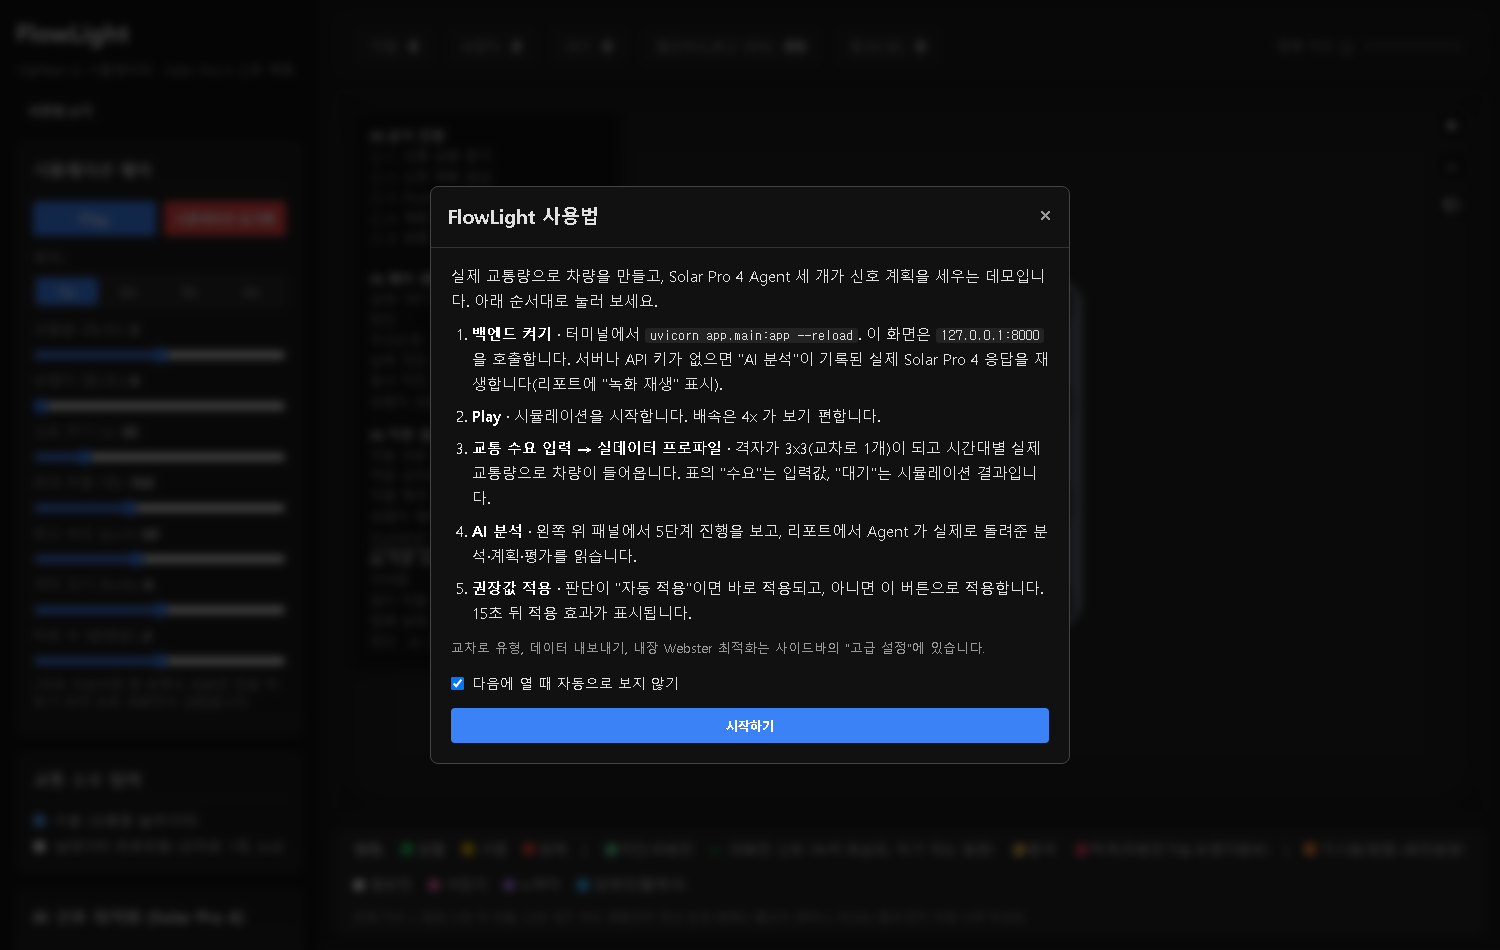
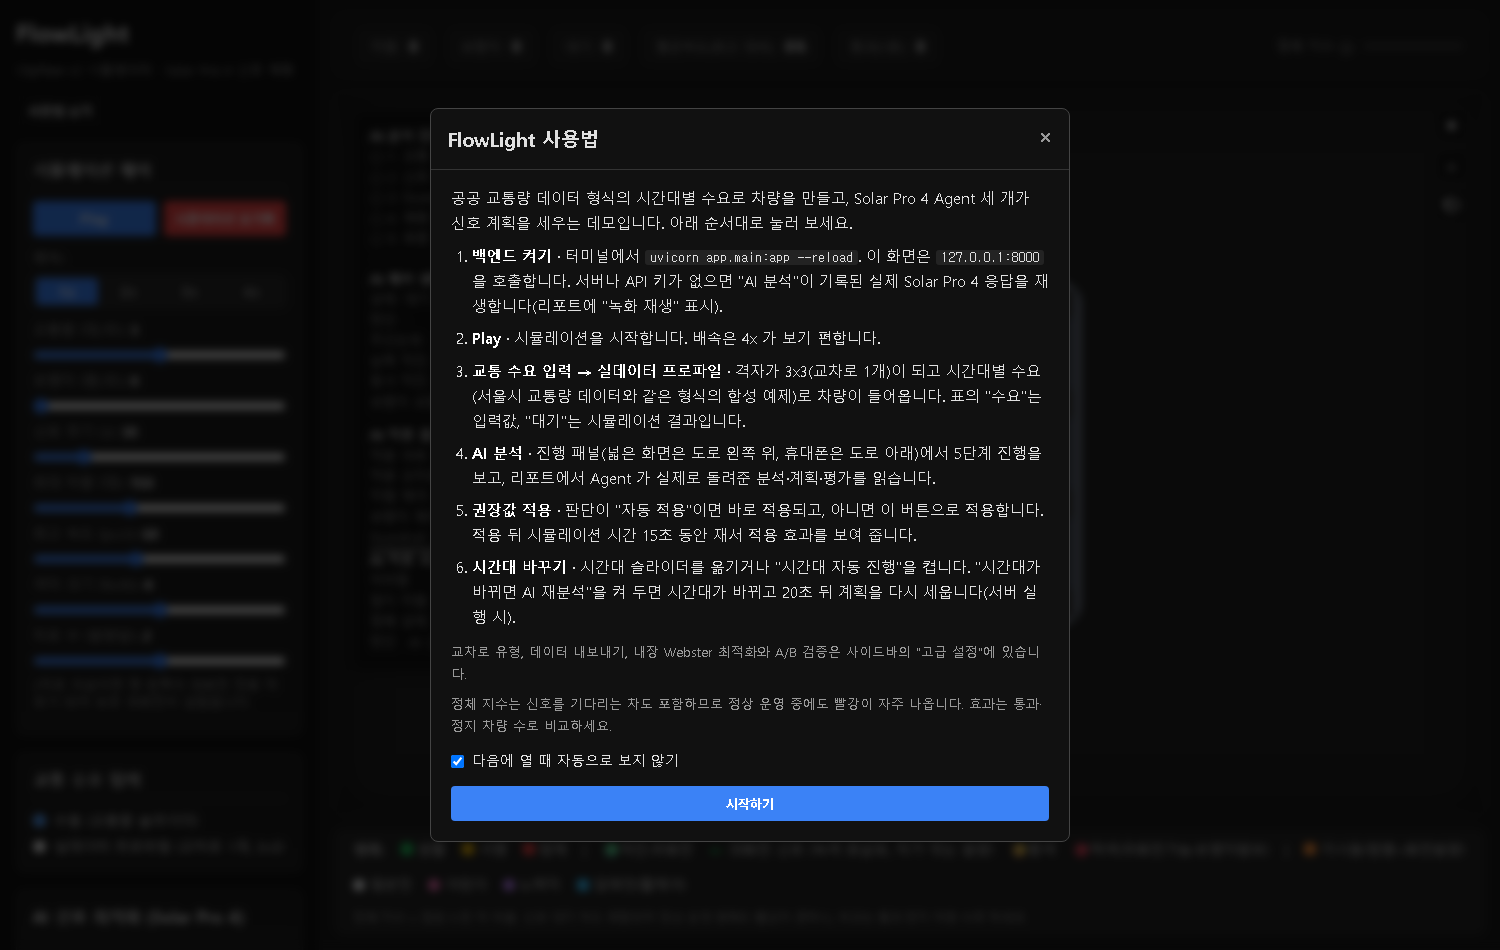
사용법 안내 보완, 데이터 설명 바로잡기
- 사용법 창: 시간대 바꾸기·재분석 단계, A/B 검증 위치, 정체 지수 읽는 법을 추가했다.
  진행 패널 위치는 휴대폰(도로 아래)도 적었다. 공개 페이지에서는 "백엔드 켜기" 단계를 뺀다.
- "실제 교통량으로 차를 만든다"는 문구를 바로잡았다. 저장소 데이터는 서울시 교통량
  데이터와 형식이 같은 합성 예제다. README 의 "실제 수요" 표현도 "배율 ×1 수요"로.
- README ko/en: 사용법 안내 다섯 단계 → 여섯 단계.
- 사용법 캡처와 Live Demo GIF 다시 촬영 (GIF 는 실제 호출 1회).

diff --git a/app/index.html b/app/index.html
@@ -487,15 +487,17 @@ input[type="range"]:disabled { opacity: 0.35; }
                 <button id="btn-close-help" class="btn-close">&times;</button>
             </div>
             <div class="help-body">
-                <p>실제 교통량으로 차량을 만들고, Solar Pro 4 Agent 세 개가 신호 계획을 세우는 데모입니다. 아래 순서대로 눌러 보세요.</p>
+                <p>공공 교통량 데이터 형식의 시간대별 수요로 차량을 만들고, Solar Pro 4 Agent 세 개가 신호 계획을 세우는 데모입니다. 아래 순서대로 눌러 보세요.</p>
                 <ol>
-                    <li><b>백엔드 켜기</b> · 터미널에서 <code>uvicorn app.main:app --reload</code>. 이 화면은 <code>127.0.0.1:8000</code> 을 호출합니다. 서버나 API 키가 없으면 "AI 분석"이 기록된 실제 Solar Pro 4 응답을 재생합니다(리포트에 "녹화 재생" 표시).</li>
+                    <li id="help-step-server"><b>백엔드 켜기</b> · 터미널에서 <code>uvicorn app.main:app --reload</code>. 이 화면은 <code>127.0.0.1:8000</code> 을 호출합니다. 서버나 API 키가 없으면 "AI 분석"이 기록된 실제 Solar Pro 4 응답을 재생합니다(리포트에 "녹화 재생" 표시).</li>
                     <li><b>Play</b> · 시뮬레이션을 시작합니다. 배속은 4x 가 보기 편합니다.</li>
-                    <li><b>교통 수요 입력 → 실데이터 프로파일</b> · 격자가 3x3(교차로 1개)이 되고 시간대별 실제 교통량으로 차량이 들어옵니다. 표의 "수요"는 입력값, "대기"는 시뮬레이션 결과입니다.</li>
-                    <li><b>AI 분석</b> · 왼쪽 위 패널에서 5단계 진행을 보고, 리포트에서 Agent 가 실제로 돌려준 분석·계획·평가를 읽습니다.</li>
-                    <li><b>권장값 적용</b> · 판단이 "자동 적용"이면 바로 적용되고, 아니면 이 버튼으로 적용합니다. 15초 뒤 적용 효과가 표시됩니다.</li>
+                    <li><b>교통 수요 입력 → 실데이터 프로파일</b> · 격자가 3x3(교차로 1개)이 되고 시간대별 수요(서울시 교통량 데이터와 같은 형식의 합성 예제)로 차량이 들어옵니다. 표의 "수요"는 입력값, "대기"는 시뮬레이션 결과입니다.</li>
+                    <li><b>AI 분석</b> · 진행 패널(넓은 화면은 도로 왼쪽 위, 휴대폰은 도로 아래)에서 5단계 진행을 보고, 리포트에서 Agent 가 실제로 돌려준 분석·계획·평가를 읽습니다.</li>
+                    <li><b>권장값 적용</b> · 판단이 "자동 적용"이면 바로 적용되고, 아니면 이 버튼으로 적용합니다. 적용 뒤 시뮬레이션 시간 15초 동안 재서 적용 효과를 보여 줍니다.</li>
+                    <li><b>시간대 바꾸기</b> · 시간대 슬라이더를 옮기거나 "시간대 자동 진행"을 켭니다. "시간대가 바뀌면 AI 재분석"을 켜 두면 시간대가 바뀌고 20초 뒤 계획을 다시 세웁니다(서버 실행 시).</li>
                 </ol>
-                <p class="hint">교차로 유형, 데이터 내보내기, 내장 Webster 최적화는 사이드바의 "고급 설정"에 있습니다.</p>
+                <p class="hint">교차로 유형, 데이터 내보내기, 내장 Webster 최적화와 A/B 검증은 사이드바의 "고급 설정"에 있습니다.</p>
+                <p class="hint">정체 지수는 신호를 기다리는 차도 포함하므로 정상 운영 중에도 빨강이 자주 나옵니다. 효과는 통과·정지 차량 수로 비교하세요.</p>
                 <label class="toggle-label mt-2"><input type="checkbox" id="chk-help-hide" checked> 다음에 열 때 자동으로 보지 않기</label>
                 <div class="btn-group mt-2">
                     <button id="btn-help-start" class="btn primary">시작하기</button>
@@ -3145,6 +3147,8 @@ SimController.prototype._initDOM = function() {
             '<a href="https://github.com/jihooni217/FlowLight-AI-Traffic-Signal" target="_blank" rel="noopener">저장소</a>를 내려받아 실행하세요.';
         var helpBody = helpOverlay.querySelector('.help-body');
         helpBody.insertBefore(note, helpBody.firstChild);
+        var serverStep = document.getElementById('help-step-server');
+        if (serverStep) serverStep.remove();
         var optHint = chkR.closest('label').nextElementSibling;
         if (optHint) optHint.textContent = '공개 데모에서는 서버 없이 녹화된 실제 응답을 재생합니다. 시간대 자동 재분석은 동작하지 않습니다.';
     }

diff --git a/README.en.md b/README.en.md
@@ -232,7 +232,7 @@ Before a plan is applied, the default signal is a fixed timetable (four phases, 
   - Congestion multiplier (×1 to 5, demo only): real peak demand leaves a single intersection fairly quiet, so this slider scales the size of the demand while keeping the ratio between directions. Spawn rate = per-lane arrival rate × lanes × multiplier. It is sent to the agents as `demand.demo_scale` so they know it is a demo multiplier
 - The AI plan is applied with the four-phase cycle, a green wave and actuated phases (see above). The after-apply effect is averaged over 15 simulated seconds, so a higher speed multiplier shows it sooner
 - Five-step AI progress panel with per-step timing, the agents' real output, Guardrail before/after
-- A five-step usage guide appears on first launch and can be reopened from the sidebar
+- A six-step usage guide appears on first launch and can be reopened from the sidebar
 - Recorded replay: without an API key, or when the backend is unreachable, a stored real Solar Pro 4 response is replayed and the report says so (see Getting started)
 - Intersection type, data export, and the built-in Webster optimiser with a seeded A/B harness (independent of the LLM) live under the collapsed "Advanced settings" section
 
@@ -378,9 +378,9 @@ Open `app/index.html` directly in a browser. It calls the backend at `http://127
 
 ### 6. Walk through the demo
 
-1. On first launch a five-step **usage guide** appears. Read it and press "Start". The sidebar button reopens it any time.
+1. On first launch a six-step **usage guide** appears. Read it and press "Start". The sidebar button reopens it any time.
 2. Press **Play** to start the simulation. 4x speed is comfortable to watch.
-3. In **Traffic demand input** on the sidebar, choose *real-data profile*. The grid switches to 3x3 and cars are spawned from the per-approach demand of the selected hour (0 to 23). The default is the 08:00 peak. Lane counts follow the data: 3 north-south, 2 east-west. Real demand leaves the screen fairly quiet, so raise the **congestion multiplier** slider to about ×3 to see a busy intersection. Switch on **re-analyse when the hour changes** and change the hour (or turn on auto advance) to have the plan rebuilt for every hour.
+3. In **Traffic demand input** on the sidebar, choose *real-data profile*. The grid switches to 3x3 and cars are spawned from the per-approach demand of the selected hour (0 to 23). The default is the 08:00 peak. Lane counts follow the data: 3 north-south, 2 east-west. At ×1 demand the screen stays fairly quiet, so raise the **congestion multiplier** slider to about ×3 to see a busy intersection. Switch on **re-analyse when the hour changes** and change the hour (or turn on auto advance) to have the plan rebuilt for every hour.
 4. Press **AI analysis**. The left panel shows the five steps as they run, and the report shows each agent's real output, the Guardrail correction and the evaluation reasoning.
 5. If the final decision is auto apply, the signals change on their own. Otherwise use **Apply recommended values**. After 15 simulated seconds the before/after effect is shown.
 6. To see the pedestrian side, raise the **pedestrians (per second)** slider to 1. Analyse while a child, an elderly person or a wheelchair user is waiting at a crosswalk: the pedestrian green comes back as 10 s or more, and after applying you see a pedestrian-only phase with every car stopped. With nobody waiting it comes back as 0 s and the phase disappears.
